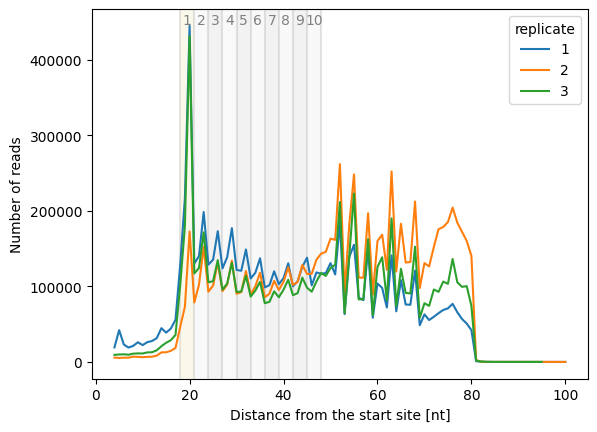
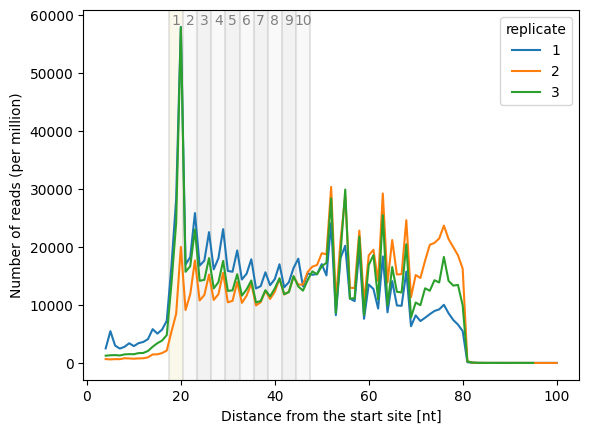
Add option to generate bar plots in itp_len_plot, handle row/col in the sample version

Changed region(s): [[0.0, 0.0, 1.0, 0.9931]]

diff --git a/itpseq/core.py b/itpseq/core.py
@@ -1959,12 +1959,22 @@ class Sample:
         )
 
     def itp_len_plot(
-        self, ax=None, min_codon=0, max_codon=10, limit=100, norm=False
+        self,
+        ax=None,
+        min_codon=0,
+        max_codon=10,
+        limit=100,
+        norm=True,
+        kind='line',
+        row=None,
+        col=None,
+        plt_kwargs=dict(height=2, aspect=3),
+        **kwargs,
     ):
         """
-        Generates a line plot of inverse-toeprint (ITP) counts per length.
+        Generates a plot of inverse-toeprint (ITP) counts per length.
 
-        This method uses the output of `itp_len` to create a line plot showing the counts of
+        This method uses the output of `itp_len` to create a plot showing the counts of
         inverse-toeprints across lengths for each replicate. Optionally, counts can be normalized
         (per million reads), and the plotted lengths can be limited.
 
@@ -1979,12 +1989,21 @@ class Sample:
         limit : int, optional
             The maximum length to include in the plot. Defaults to 100.
         norm : bool, optional
-            Whether to normalize counts to reads per million. Defaults to False.
+            Whether to normalize counts to reads per million. Defaults to True.
+        kind : str
+            Type of plot to use. Defaults to 'line'.
+        row: str, optional
+            attribute to use as rows in the FacetGrid
+        col: str, optional
+            attribute to use as columns in the FacetGrid
+        plt_kwargs:
+            parameters used in the FacetGrid if col/row is used.
+        kwargs: optional
+            Additional parameters to pass to the seaborn plotting function.
 
         Returns
         -------
-        matplotlib.axes.Axes
-            The axes object containing the plotted lineplot.
+        matplotlib.axes.Axes or seaborn.axisgrid.FacetGrid
 
         See Also
         --------
@@ -1998,9 +2017,17 @@ class Sample:
 
         Examples
         --------
-         >>> sample.itp_len_plot()
+        Create a line plot with all replicates:
+
+         >>> sample.itp_len_plot(norm=False)
 
         .. image:: /_static/sample_itp_len_plot.png
+
+        Create a bar plot per replicate:
+
+         >>> sample.itp_len_plot(kind='bar', row='replicate')
+
+        .. image:: /_static/sample_itp_len_plot_bar.png
         """
 
         df_len = self.itp_len.copy()
@@ -2024,15 +2051,49 @@ class Sample:
                 .div(1_000_000)
             )
 
+        is_cat = kind not in {'line', 'scatter'}
+
+        if is_cat:
+            hue = names['length']
+            extra_kwargs = dict(
+                native_scale=True, palette=['#e41a1c', '#377eb8', '#4daf4a']
+            )
+        else:
+            hue = 'replicate'
+            extra_kwargs = {}
+
+        if row or col:
+            g = (sns.catplot if is_cat else sns.relplot)(
+                data=df_len.rename(columns=names),
+                x=names['length'],
+                y=names['count'],
+                hue=hue,
+                row=row,
+                col=col,
+                kind=kind,
+                **(extra_kwargs | plt_kwargs),
+            )
+            for ax_ in g.axes.flat:
+                processing.itp_len_add_positions(
+                    ax_, min_codon=min_codon, max_codon=max_codon
+                )
+            return g
+
         if not ax:
             _, ax = plt.subplots()
 
-        sns.lineplot(
+        try:
+            plotter = getattr(sns, f'{kind}plot')
+        except AttributeError:
+            ValueError(f'{kind} is not a valid plotting method.')
+
+        plotter(
             data=df_len.rename(columns=names),
             x=names['length'],
             y=names['count'],
-            hue='replicate',
+            hue=hue,
             ax=ax,
+            **(extra_kwargs | kwargs),
         )
         processing.itp_len_add_positions(
             ax, min_codon=min_codon, max_codon=max_codon
@@ -2615,7 +2676,8 @@ class DataSet:
         limit=100,
         norm=True,
         hue='auto',
-        plt_kwargs=dict(kind='line', height=2, aspect=3),
+        kind='line',
+        plt_kwargs=dict(height=2, aspect=3),
     ):
         """
         Generates a line plot of inverse-toeprint (ITP) counts per length.
@@ -2639,9 +2701,12 @@ class DataSet:
         limit : int, optional
             The maximum length to include in the plot. Defaults to 100.
         norm : bool, optional
-            Whether to normalize counts to reads per million. Defaults to False.
+            Whether to normalize counts to reads per million. Defaults to True.
         hue: str, optional
             Parameter to use a hue in the FacetGrid (by default 'replicate').
+            This parameter is only considered if kind is 'line' or 'scatter'.
+        kind: str
+            Type of representation for the plot. Defaults to 'line'.
         plt_kwargs: dict, optional
             parameters used in the FacetGrid if col/row is used.
 
@@ -2672,6 +2737,13 @@ class DataSet:
          >>> dataset.itp_len_plot(row='sample')
 
         .. image:: /_static/dataset_itp_len_plot_row.png
+
+        Create bar plots with sample as columns and replicates as rows:
+
+         >>> dataset.itp_len_plot(kind='bar', col='sample', row='replicate',
+         ...                      norm=False, limit=80)
+
+        .. image:: /_static/dataset_itp_len_plot_bar_row_col.png
         """
 
         df_len = pd.concat(
@@ -2697,15 +2769,35 @@ class DataSet:
                 .div(1_000_000)
             )
 
+        is_relplot = kind in {'line', 'scatter'}
+
+        if is_relplot:
+            if hue == 'auto':
+                if col or row:
+                    hue = 'replicate'
+                else:
+                    hue = 'sample'
+        else:
+            hue = names['length']
+
+        extra_kwargs = (
+            {}
+            if is_relplot
+            else dict(
+                native_scale=True, palette=['#e41a1c', '#377eb8', '#4daf4a']
+            )
+        )
+
         if col or row:
-            g = sns.relplot(
+            g = (sns.relplot if is_relplot else sns.catplot)(
                 data=df_len.rename(columns=names),
                 col=col,
                 row=row,
                 x=names['length'],
                 y=names['count'],
-                hue='replicate' if hue == 'auto' else hue,
-                **plt_kwargs,
+                hue=hue,
+                kind=kind,
+                **(extra_kwargs | plt_kwargs),
             )
             for ax_ in g.axes.flat:
                 processing.itp_len_add_positions(
@@ -2716,12 +2808,24 @@ class DataSet:
         if not ax:
             _, ax = plt.subplots()
 
-        sns.lineplot(
+        try:
+            plotter = getattr(sns, f'{kind}plot')
+        except AttributeError:
+            ValueError(f'{kind} is not a valid plotting method.')
+
+        # Warn user that categorical plots will aggregate the samples
+        if not is_relplot:
+            warnings.warn(
+                f"""Plotting a {kind}plot without col/row, all samples will be aggregated. Consider using row='sample'."""
+            )
+
+        plotter(
             data=df_len.rename(columns=names),
             x=names['length'],
             y=names['count'],
-            hue='sample' if hue == 'auto' else hue,
+            hue=hue,
             ax=ax,
+            **extra_kwargs,
         )
         processing.itp_len_add_positions(
             ax, min_codon=min_codon, max_codon=max_codon

diff --git a/tests/test_04_plots.py b/tests/test_04_plots.py
@@ -19,6 +19,14 @@ class TestDataSetPlots:
     def test_itp_len_plot_row_sample(self):
         self.tcx_data.itp_len_plot(row='sample')
 
+    def test_itp_len_plot_bar_row_sample(self):
+        self.tcx_data.itp_len_plot(kind='bar', row='sample')
+
+    def test_itp_len_plot_bar_row_sample(self):
+        self.tcx_data.itp_len_plot(
+            kind='bar', row='sample', col='sample', limit=61, norm=False
+        )
+
 
 class TestSamplePlots:
     @pytest.fixture(scope='class', autouse=True)
@@ -30,6 +38,12 @@ class TestSamplePlots:
 
     def test_itp_len_plot(self):
         self.tcx.itp_len_plot()
+
+    def test_itp_len_plot_bar(self):
+        self.tcx.itp_len_plot(kind='bar')
+
+    def test_itp_len_plot_bar_row_replicate(self):
+        self.tcx.itp_len_plot(kind='bar', row='replicate')
 
     def test_hmap_EP(self):
         self.tcx.hmap('E', 'P')
